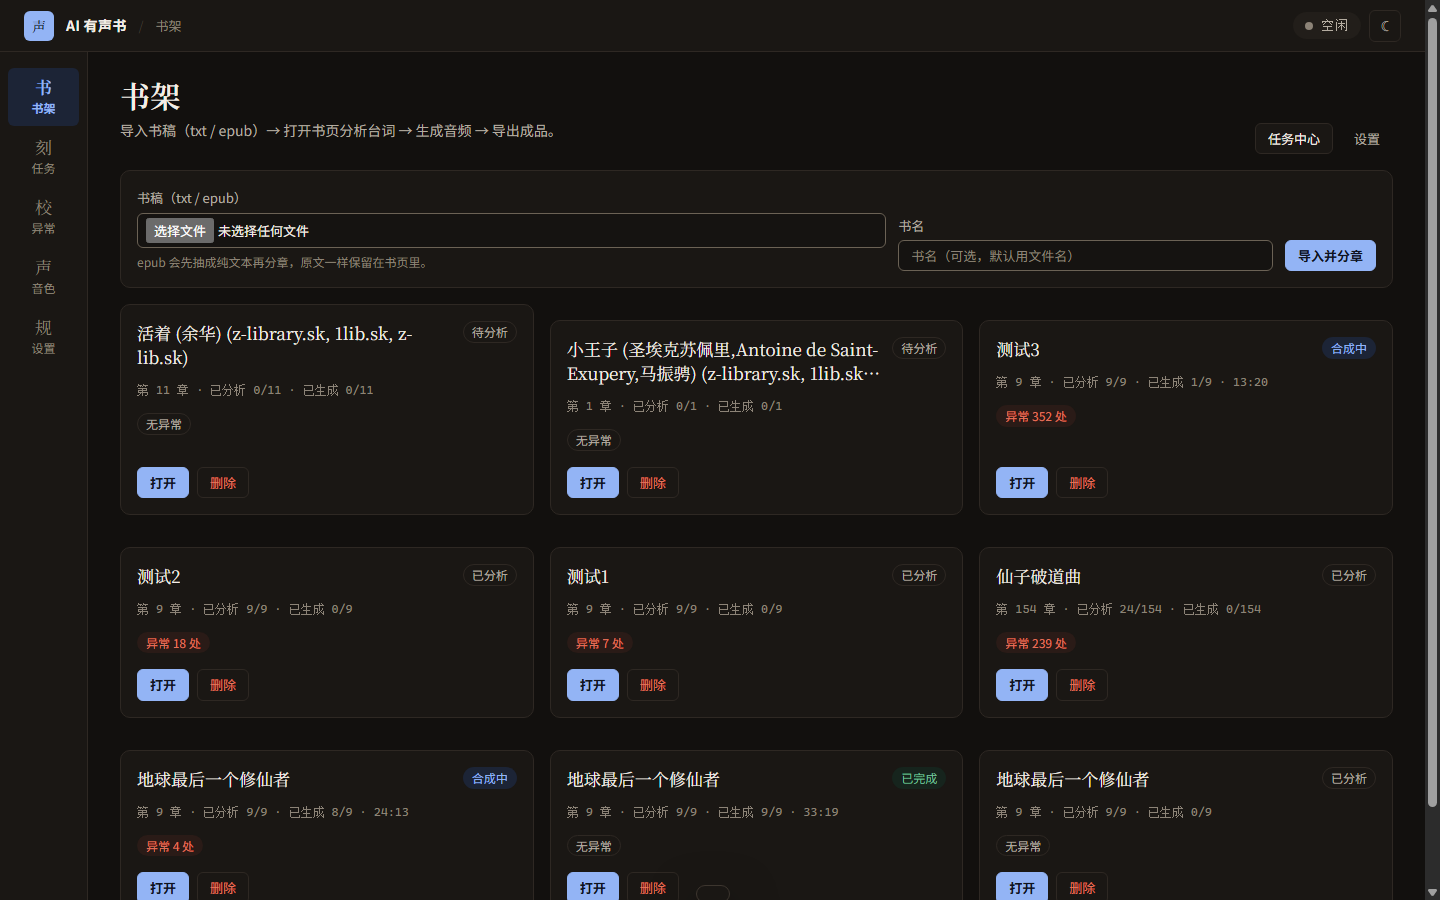
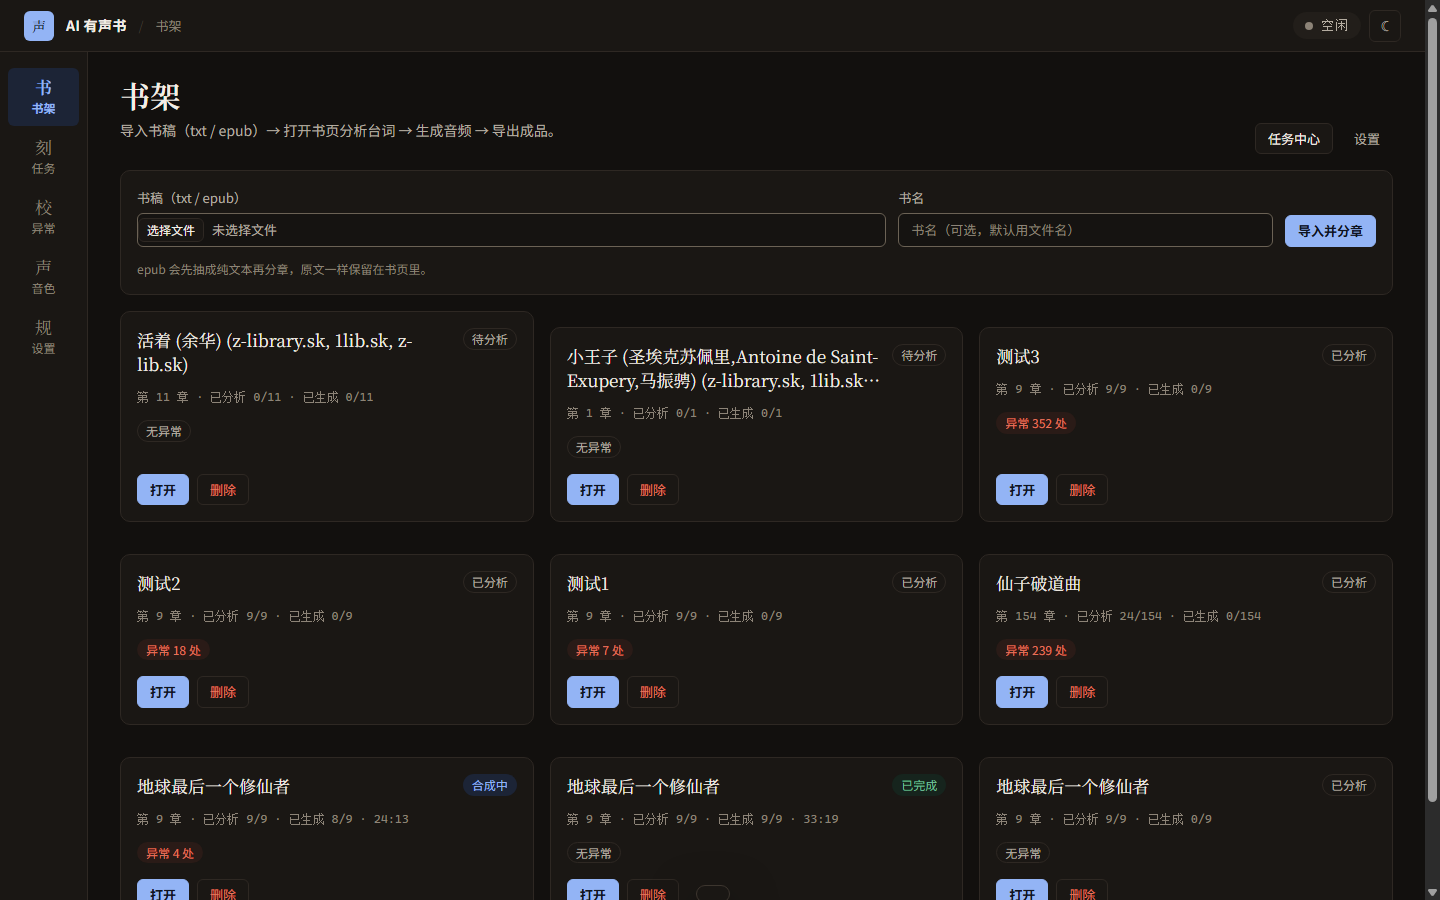
fix(ui): 书架导入区两列对齐（书稿提示行不再顶歪标签）
书稿列有提示行、书名列没有，align-items:end 会把两列标签错开；
改成「一行控件 + 提示独占下面一行」，并把原生 file 控件换成与音色库同款、
与文本框等高的自定义选择框（顺带显示已选文件名）。

实测：两列标签 top 均为 187px，两个控件均为 213-247px，导入按钮底边 247px。

diff --git a/src/audiobook/web/app.css b/src/audiobook/web/app.css
@@ -112,13 +112,46 @@
 .import {
   display: grid;
   gap: var(--space-3);
-  grid-template-columns: minmax(0, 2fr) minmax(0, 1fr) auto;
-  align-items: end;
   margin-block-start: var(--space-4);
   padding: var(--space-4);
 }
-.import .field { margin-bottom: 0; }
-.import input[type="file"] { background: var(--inset); }
+.import__row {
+  display: grid;
+  grid-template-columns: minmax(0, 2fr) minmax(0, 1fr) auto;
+  gap: var(--space-3);
+  align-items: end;
+}
+.import__row .field { margin-bottom: 0; }
+.import__row .field input[type="text"],
+.import__row .filepick { block-size: 34px; }
+.import__row .field input[type="text"] { padding-block: 0; }
+.import > .field__hint { margin: 0; }
+
+/* 自定义文件选择框：和音色库的拖放区同一套语言，高度与文本框一致 */
+.filepick {
+  position: relative;
+  display: flex;
+  align-items: center;
+  gap: var(--space-2);
+  margin: 0;                 /* 全局 label 有下边距，会把这一格顶高 4px */
+  padding-inline-end: var(--space-3);
+  border: 1px solid var(--border-input);
+  border-radius: var(--radius-sm);
+  background: var(--inset);
+  cursor: pointer;
+  overflow: hidden;
+  transition: border-color 140ms var(--ease-out);
+}
+.filepick:hover { border-color: var(--text-faint); }
+.filepick:focus-within { box-shadow: var(--focus); }
+.filepick input[type="file"] { position: absolute; inline-size: 1px; block-size: 1px; opacity: 0; }
+.filepick__name {
+  font-size: var(--text-sm);
+  color: var(--text-muted);
+  overflow: hidden;
+  text-overflow: ellipsis;
+  white-space: nowrap;
+}
 
 .book-grid {
   display: grid;
@@ -683,7 +716,7 @@
 /* ------------------------------------------------------------------ 响应式 */
 
 @media (max-width: 1024px) {
-  .import { grid-template-columns: minmax(0, 1fr); }
+  .import__row { grid-template-columns: minmax(0, 1fr); }
   .upload { grid-template-columns: minmax(0, 1fr); }
   .field-grid, .field-grid--3 { grid-template-columns: minmax(0, 1fr); }
   .list-head { display: none; }

diff --git a/src/audiobook/web/js/views/shelf.js b/src/audiobook/web/js/views/shelf.js
@@ -79,7 +79,24 @@ function bookCard(book, refresh) {
 }
 
 function importForm(refresh) {
-  const file = h("input", { type: "file", accept: ".txt,.epub,application/epub+zip,text/plain", required: true });
+  const file = h("input", {
+    id: "import-file",
+    type: "file",
+    accept: ".txt,.epub,application/epub+zip,text/plain",
+    required: true,
+  });
+  // 原生 file 控件比文本框高一截，会把这一行的标签顶歪；包成和音色库同款的选择框
+  const fileName = h("span", { class: "filepick__name" }, "未选择文件");
+  file.addEventListener("change", () => {
+    fileName.textContent = file.files?.[0]?.name || "未选择文件";
+  });
+  const picker = h(
+    "label",
+    { class: "filepick", for: "import-file" },
+    h("span", { class: "btn btn-sm" }, "选择文件"),
+    fileName,
+    file,
+  );
   const title = h("input", { type: "text", placeholder: "书名（可选，默认用文件名）" });
   const submit = h("button", { class: "btn btn-primary", type: "submit" }, "导入并分章");
   const form = h(
@@ -109,15 +126,16 @@ function importForm(refresh) {
         }
       },
     },
+    // 三个控件同一行：标签对齐标签、控件对齐控件；提示语独占下面一行，
+    // 否则「书稿有提示、书名没有」会把两列的基线顶歪。
     h(
       "div",
-      { class: "field" },
-      h("label", {}, "书稿（txt / epub）"),
-      file,
-      h("p", { class: "field__hint muted" }, "epub 会先抽成纯文本再分章，原文一样保留在书页里。"),
+      { class: "import__row" },
+      h("div", { class: "field" }, h("label", { for: "import-file" }, "书稿（txt / epub）"), picker),
+      h("div", { class: "field" }, h("label", {}, "书名"), title),
+      submit,
     ),
-    h("div", { class: "field" }, h("label", {}, "书名"), title),
-    submit,
+    h("p", { class: "field__hint muted" }, "epub 会先抽成纯文本再分章，原文一样保留在书页里。"),
   );
   return form;
 }

diff --git a/tests/test_ui_smoke.py b/tests/test_ui_smoke.py
@@ -216,13 +216,20 @@ def test_shelf_card_only_has_open_delete_and_opens_on_click(served, settings, na
         f"{served}/#/shelf",
         tmp_path / "shelf-actions",
         extra=(
-            "--eval=JSON.stringify([...document.querySelectorAll('.book-card__actions .btn')]"
-            ".map((node) => node.textContent))",
+            "--eval=JSON.stringify({"
+            " actions: [...document.querySelectorAll('.book-card__actions .btn')].map((node) => node.textContent),"
+            " importFile: Boolean(document.querySelector('.import input[type=file]')),"
+            " importAlign: Math.round((document.querySelector('.import__row > .field') || {}).getBoundingClientRect"
+            " ? document.querySelector('.import__row > .field').getBoundingClientRect().top"
+            "   - document.querySelectorAll('.import__row > .field')[1].getBoundingClientRect().top : 0),"
+            " })",
         ),
     )
     assert page["consoleErrors"] == []
-    actions = json.loads(next(value for key, value in page.items() if key.startswith("eval:")))
-    assert actions == ["打开", "删除"]          # 一键生成/异常按钮已下线
+    probe = json.loads(next(value for key, value in page.items() if key.startswith("eval:")))
+    assert probe["actions"] == ["打开", "删除"]          # 一键生成/异常按钮已下线
+    assert probe["importFile"] is True                   # 导入区还收得到文件
+    assert probe["importAlign"] == 0                     # 书稿/书名两列的标签顶在同一行
 
     # 点卡片正文（不是链接、不是按钮）也要能进书页
     clicked = _probe(f"{served}/#/shelf", tmp_path / "shelf-card-click", extra=("--click=.book-card__stats",))
